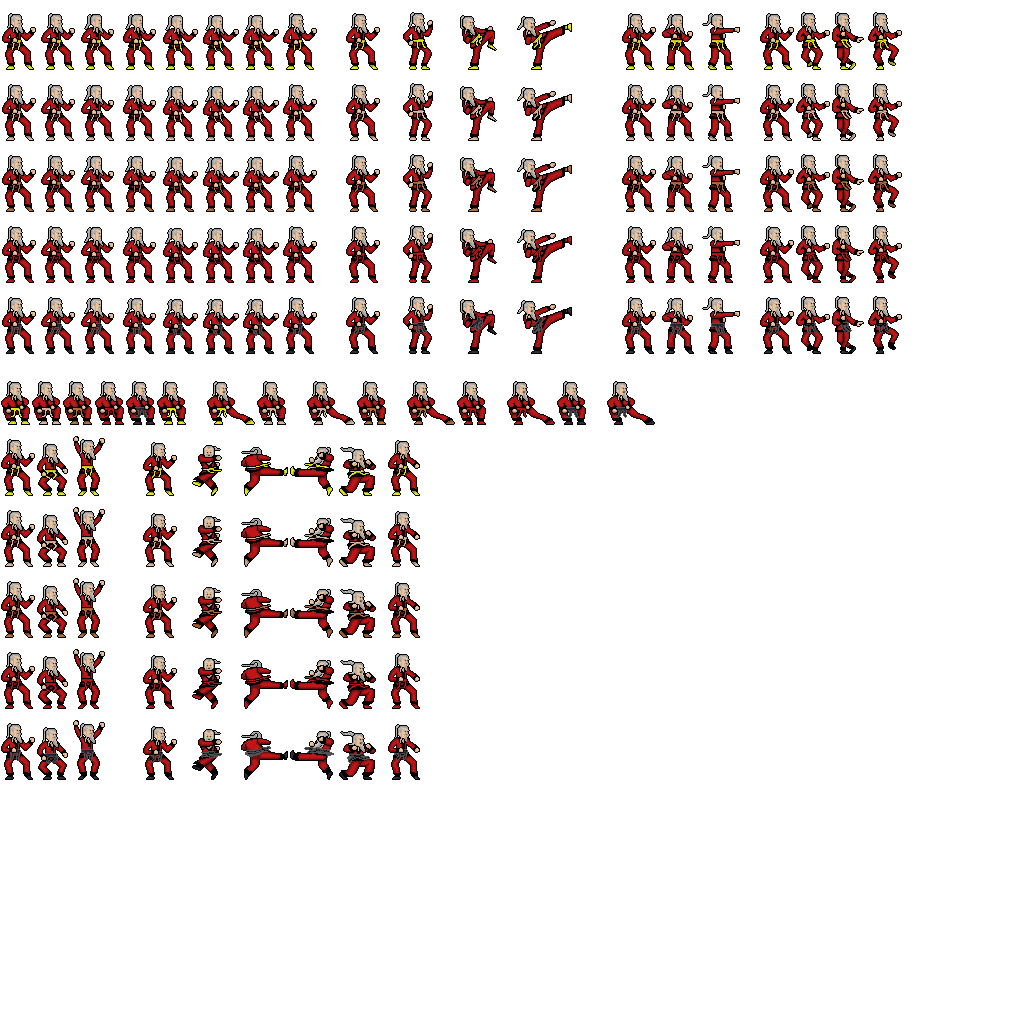
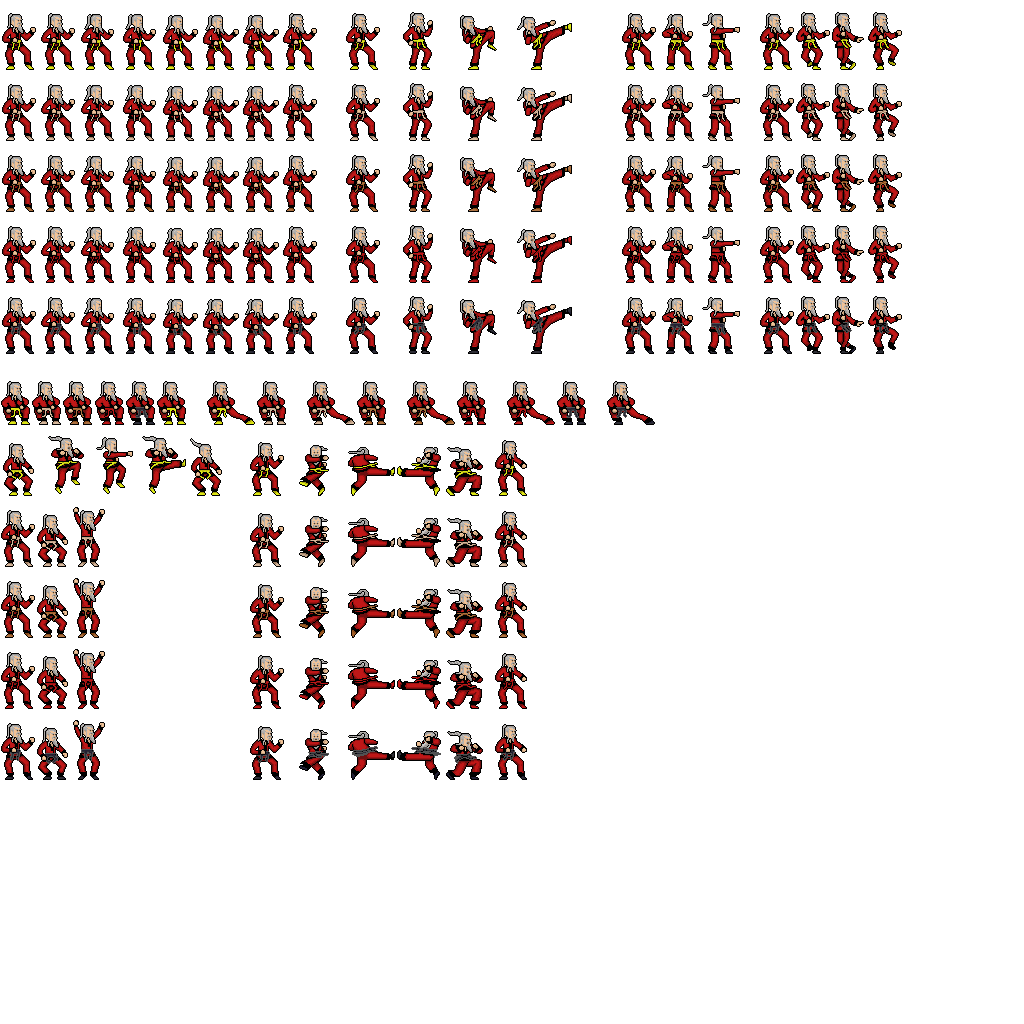
updated boss animations for jumping.  fixed frame timing for boss jump

Changed region(s): [[0.0, 0.4062, 0.5312, 0.7812]]

diff --git a/js/AnimationBuilder.js b/js/AnimationBuilder.js
@@ -1429,10 +1429,10 @@ function AnimationBuilder() {
 		jump:{
 			name:STATE.Jump,
 			image:yellowBossJump,
-			frames:[0, 1, 2, 1],
-			width:yellowBossJump.width / 3,
+			frames:[0, 1, 4],
+			width:yellowBossJump.width / 5,
 			height:yellowBossJump.height,
-			frameTimes:[32, 32, 380, 32],
+			frameTimes:[32, 380, 32],
 			reverses:false,
 			loops:false
 		},

diff --git a/js/AtlasData.js b/js/AtlasData.js
@@ -1656,11 +1656,11 @@ const yellowBossJumpData = {
 	image:bossAtlas,
 	clipX:0,
 	clipY:ATLAS_ROW6 + 2,
-	clipWidth:108,
+	clipWidth:235,
 	clipHeight:67,
-	frameWidth:36,
+	frameWidth:47,
 	frameCount:3,
-	frames:[0, 1, 2, 1],
+	frames:[0, 1, 4],
 	frameTimes:[50],
 	reverses:false,
 	loops:false
